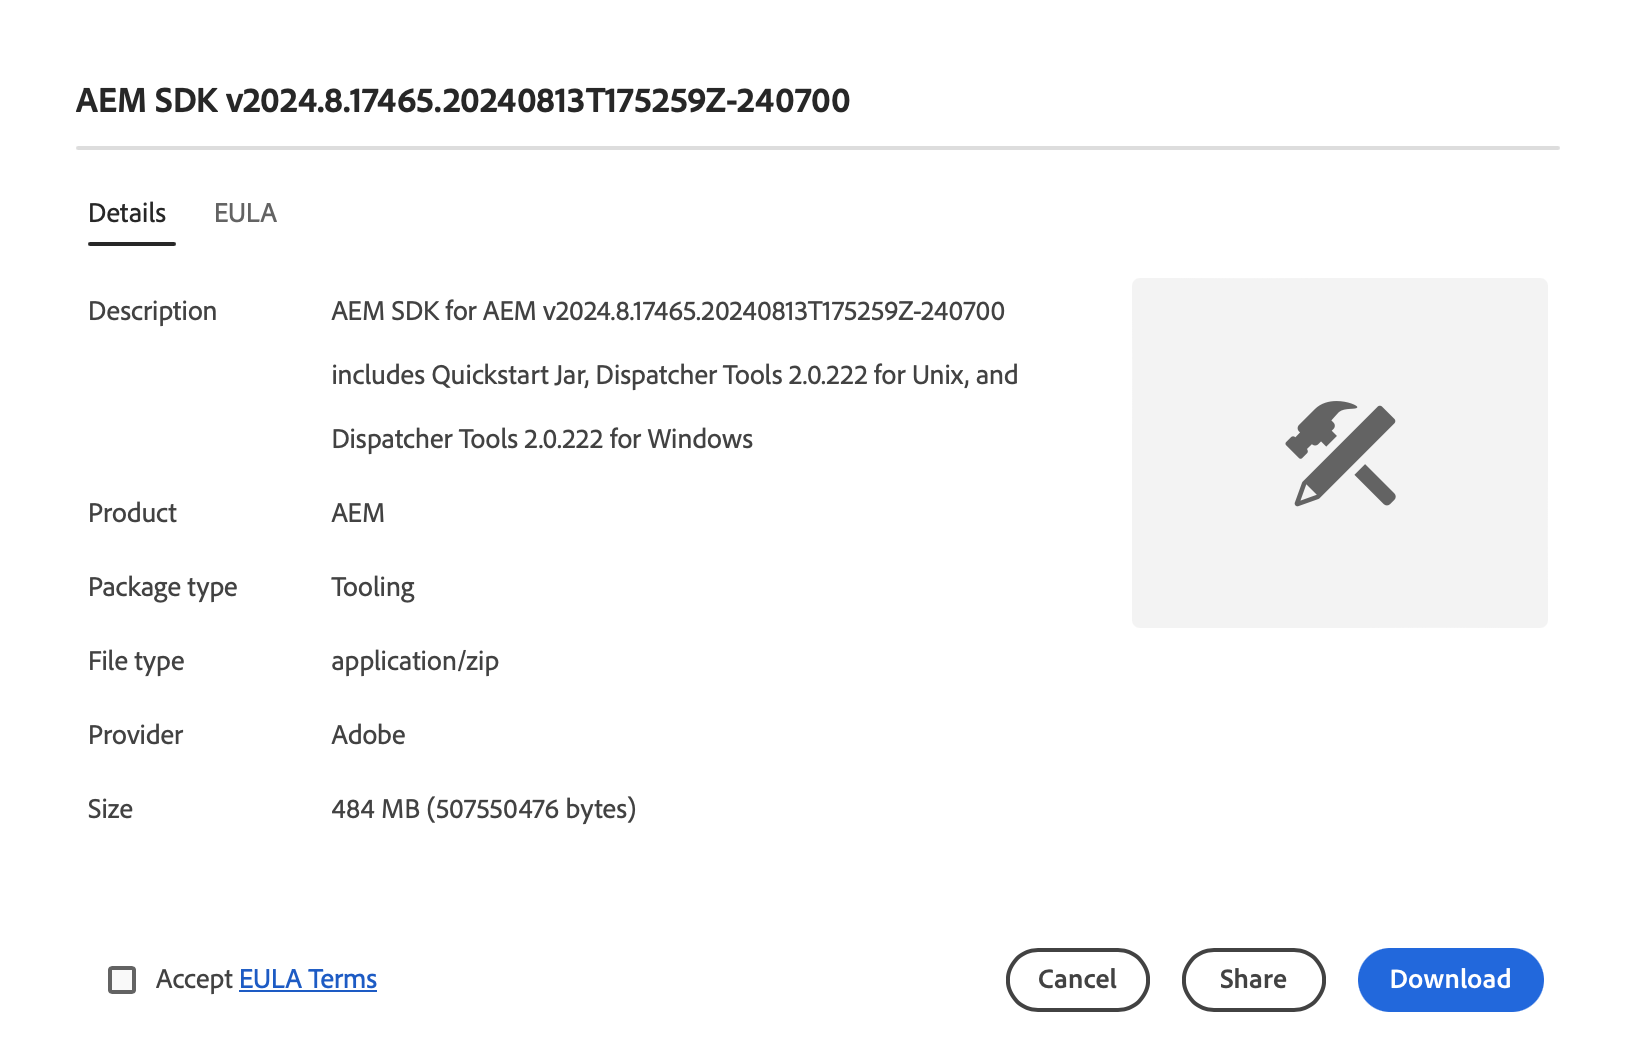
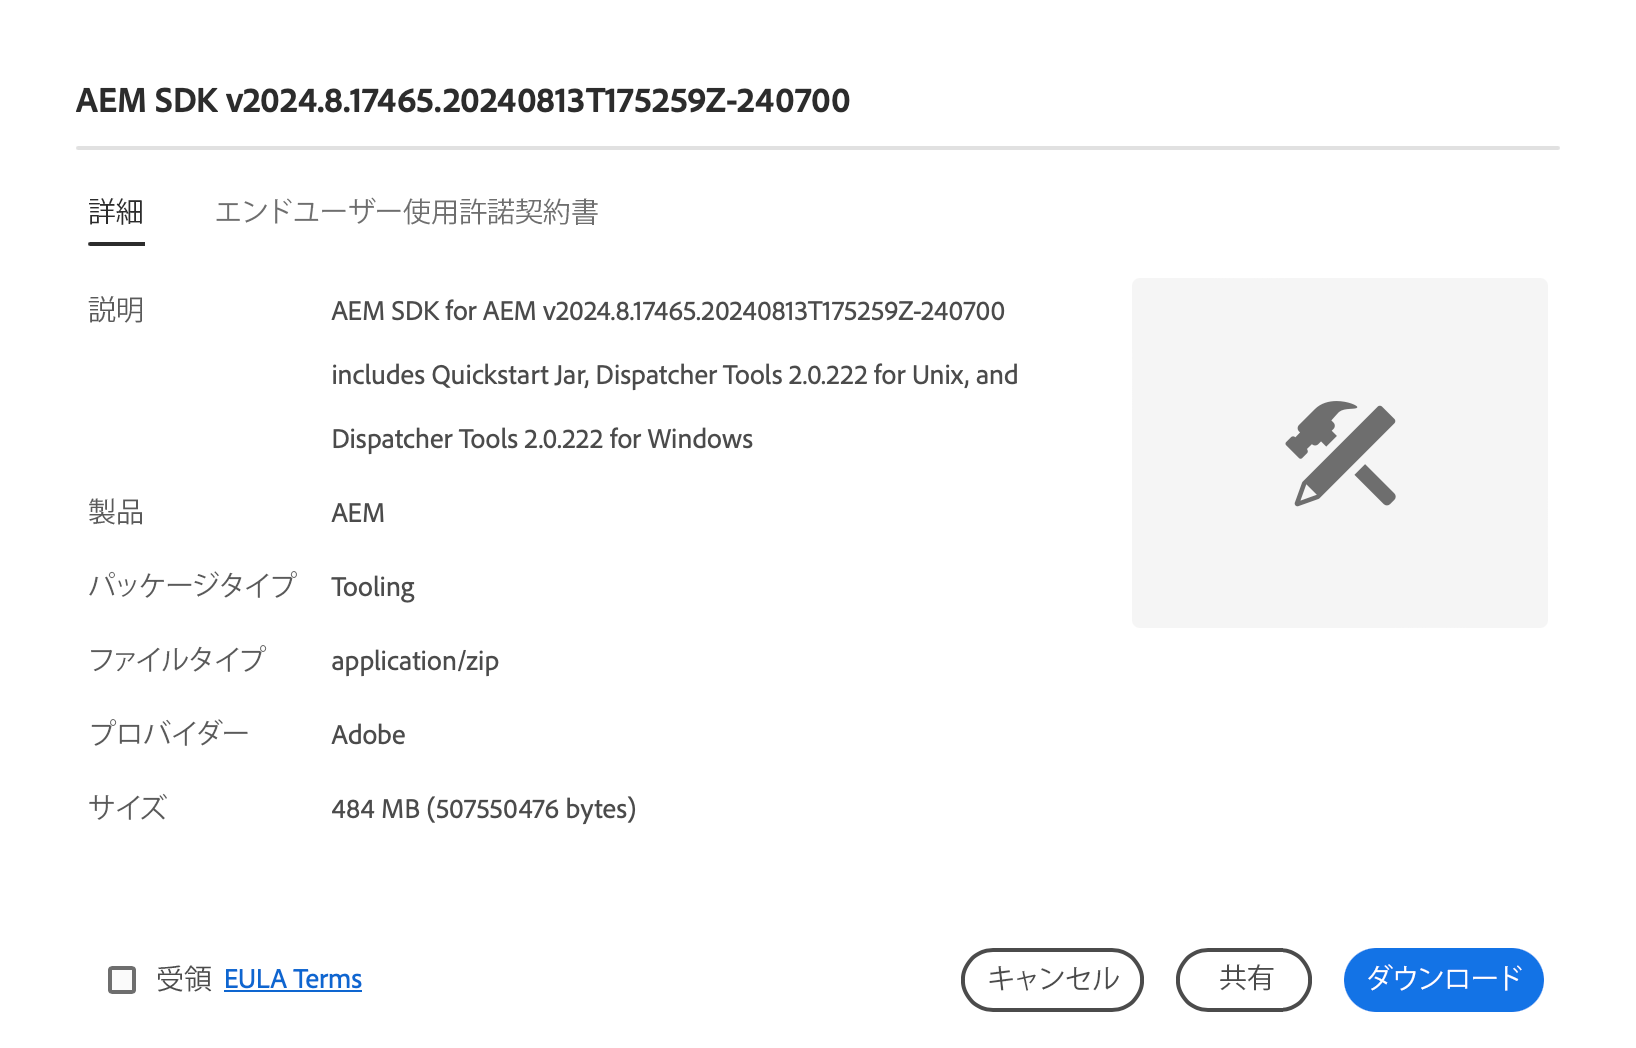
Updated by task 'AUTO_HANDOFF_1724428864251'  Changes for core/source commit https://git.corp.adobe.com/AdobeDocs/experience-cloud.en/commit/ab636c01910e4825bd9168c276b2fe14dead50a4

diff --git a/help/software-distribution/home.md b/help/software-distribution/home.md
@@ -1,29 +1,29 @@
 ---
 title: ソフトウェア配布
-description: ソフトウェア配布を使用してAdobe Experience Cloud ソフトウェアをダウンロードする方法を説明します。
+description: ソフトウェア配布を使用して Adobe Experience Cloud ソフトウェアをダウンロードする方法について説明します。
 exl-id: ac559a28-4444-4326-ba92-78afd10ed9ab
 source-git-commit: 6a2ba27cfeae875ab9184760b6d233ef759dd460
-workflow-type: tm+mt
+workflow-type: ht
 source-wordcount: '430'
-ht-degree: 9%
+ht-degree: 100%
 
 ---
 
 
 # ソフトウェア配布
 
-ソフトウェア配布を使用してAdobe Experience Cloud ソフトウェアをダウンロードする方法を説明します。
+ソフトウェア配布を使用して Adobe Experience Cloud ソフトウェアをダウンロードする方法について説明します。
 
 ## はじめに
 
-ソフトウェア配布は、Adobe Experience Cloud ソフトウェアを検索およびダウンロードするための効率的なエクスペリエンスを提供します。 Adobeの承認済みソフトウェアパッケージとパートナー企業のパッケージは、次の製品で使用できます。
+ソフトウェア配布は、Adobe Experience Cloud ソフトウェアを検索してダウンロードするための効率的なエクスペリエンスを提供します。アドビの承認済みソフトウェアパッケージとパートナー会社のパッケージを、次の製品で使用できます。
 
-1. **Adobe Experience Manager** - サポート対象のすべてのAEM バージョンに関する、サービスとメンテナンス、セキュリティ、ツールなどに関するすべて
-1. **Adobe Experience Manager as a [!UICONTROL Cloud Service]** - [!UICONTROL AEM Cloud SDK]、[!UICONTROL AEM Cloud] 移行ツールなど
-1. **Adobe Campaign** – 現在のすべての [!DNL Campaign] インストーラーバージョンと関連ツール
-1. **一般** - Adobeユーザー向けの [!DNL Oracle] JDK を含む汎用ツール
+1. **Adobe Experience Manager** - サポートされるすべての AEM バージョンのサービスとメンテナンス、セキュリティ、ツールなどに関する機能がすべて備わっています。
+1. **Adobe Experience Manager as a [!UICONTROL Cloud Service]** - [!UICONTROL AEM Cloud SDK]、[!UICONTROL AEM Cloud] 移行ツールなど。
+1. **Adobe Campaign** - 現在の [!DNL Campaign] インストーラーのすべてのバージョンと関連ツール。
+1. **一般** - アドビのお客様向け [!DNL Oracle] JDK を含む汎用ツール。
 
-ソフトウェア配布の使用は、次のように簡単です。
+ソフトウェア配布の使用は、次の手順で簡単に行うことができます。
 
 1. [ソフトウェア配布へのアクセス](#accessing)
 1. [製品の選択](#selecting)
@@ -32,41 +32,41 @@ ht-degree: 9%
 
 ## ソフトウェア配布へのアクセス {#accessing}
 
-ソフトウェア配布にアクセスするには、[`https://experience.adobe.com/downloads`](https://experience.adobe.com/downloads) に移動し、Adobe IDを使用して [!UICONTROL  ソフトウェア配布 ] にログインします。
+ソフトウェア配布にアクセスするには、[`https://experience.adobe.com/downloads`](https://experience.adobe.com/downloads) に移動し、Adobe ID を使用して[!UICONTROL ソフトウェア配布]にログインします。
 
 ## 製品の選択 {#selecting}
 
-メニューに示すように、ソフトウェア配布 UI は製品別に整理されています。
+ソフトウェア配布 UI は、メニューに示すように製品別に整理されています。
 
-![ 商品別メニュー ](assets/menu.png)
+![製品別に整理されたメニュー](assets/menu.png)
 
-「**一般**」タブに移動すると、汎用ソフトウェアのダウンロードが見つかります。
+「**全般**」タブに移動すると、汎用ソフトウェアのダウンロードを検索できます。
 
-ソフトウェアをダウンロードするメニューの製品をタップまたはクリックします。 組織がライセンスを取得した製品のみをダウンロードできます。
+メニューでソフトウェアをダウンロードする製品をタップまたはクリックします。組織がライセンスを持つ製品のみをダウンロードできます。
 
 ## ダウンロードの検索 {#finding}
 
-目的の製品タブを選択したら、関連するすべてのダウンロードが表示されます。 左側のパネルの検索フィルターを使用すると、ダウンロードをすばやく見つけることができます。 フィルターオプションは製品によって異なります。
+目的の製品タブを選択すると、関連するダウンロードがすべて表示されます。左側のパネルの検索フィルターを使用すると、ダウンロードをすばやく検索できます。「フィルター」オプションは製品別に異なります。
 
-![ フィルター ](assets/filters.png)
+![フィルター](assets/filters.png)
 
 ## ソフトウェアのダウンロード {#downloading}
 
-表示されたダウンロードをタップまたはクリックすると、ダイアログが開き、ダウンロードに関する詳細情報が表示されます。 例えば、説明、プロバイダー名、EULA を確認できます。
+表示されたダウンロードをタップまたはクリックすると、ダイアログが開き、ダウンロードに関する詳細情報が表示されます。例えば、説明、プロバイダー名、EULA を確認できます。
 
-![ 詳細をダウンロード ](assets/details.png)
+![ダウンロードの詳細](assets/details.png)
 
 「**ダウンロード**」ボタンを有効にするには、「**EULA 利用条件に同意する**」を選択して EULA に同意する必要があります。
 
-「**共有**」をタップまたはクリックして URL をコピーすることで、その特定のダウンロードへのリンクを共有することもできます。
+また、「**共有**」をタップまたはクリックして URL をコピーすることで、特定のダウンロードへのリンクを共有することもできます。
 
 ## パッケージ共有 {#package-share}
 
-2020 年 6 月、AEMの [!UICONTROL Software Distribution] は [!UICONTROL Package Share] に、[!DNL Campaign] の [!DNL Neolane] は置き換えました。 直感的なユーザーインターフェイス、検索の簡素化、ダウンロード速度の大幅な向上により、ソフトウェア配布を使用したExperience Cloud向けソフトウェアパッケージのダウンロード体験が向上します。
+2020年6月に、AEM の [!UICONTROL Package Share] と [!DNL Campaign] の [!DNL Neolane] が[!UICONTROL ソフトウェア配布]に置き換えられました。直観的なユーザーインターフェイスとシンプルな検索を備え、ダウンロード速度が大幅に向上したことで、ソフトウェア配布を使用すると、Experience Cloud 製品のソフトウェアパッケージをダウンロードするエクスペリエンスが向上します。
 
 >[!IMPORTANT]
 >
->[!UICONTROL Package Share] または [!DNL Neolane] からのログイン資格情報は、Adobe全体のセキュリティ標準でログインする機能を提供する [!UICONTROL  ソフトウェア配布 ] では機能しません。 Adobe IDが不明な場合は、組織内のサポート管理者にお問い合わせください。
+>[!UICONTROL Package Share] または [!DNL Neolane] からのログイン資格情報はアドビ全体のセキュリティ標準に従ってログインする機能を提供する「[!UICONTROL ソフトウェア配布]」では機能しません。Adobe ID がわからない場合は、社内のサポート管理者にお問い合わせください。
 
 >[!NOTE]
 >
